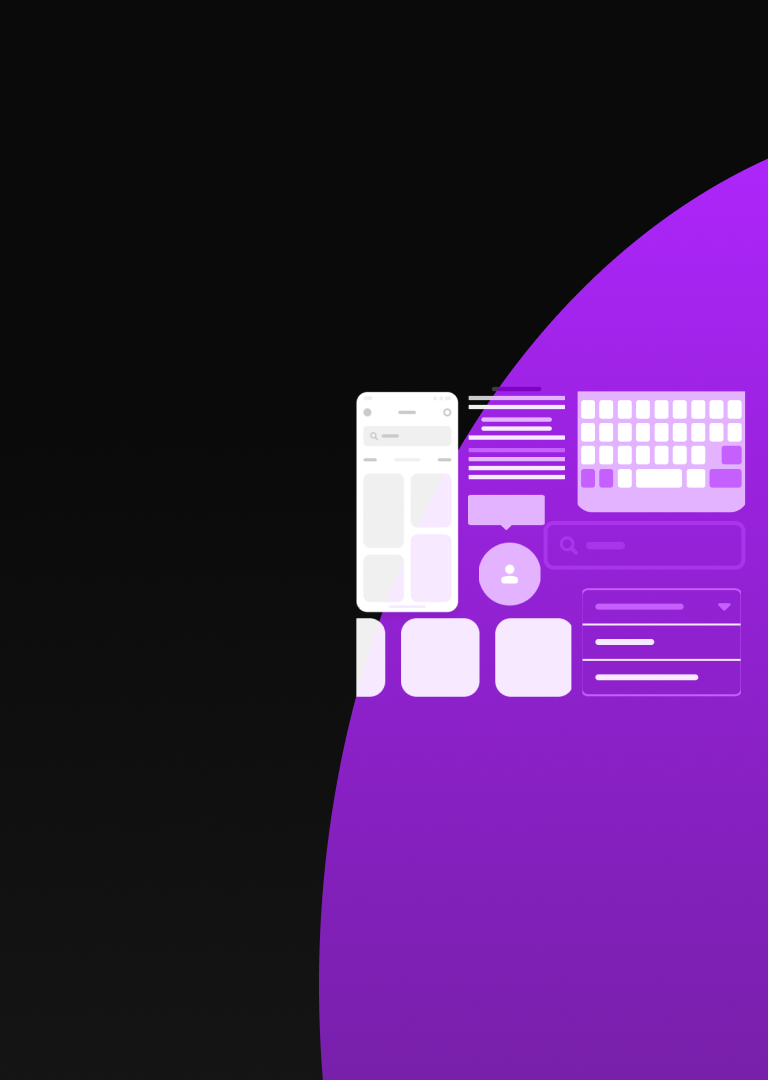
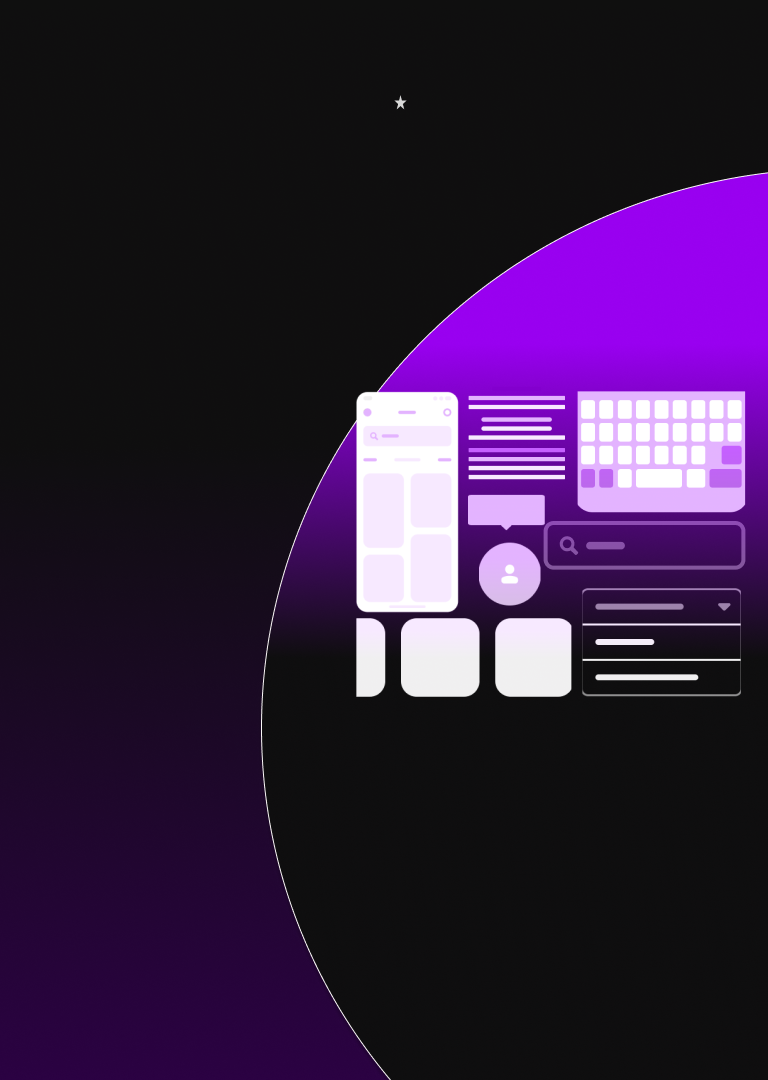
commit

diff --git a/pages/index.js b/pages/index.js
@@ -85,6 +85,11 @@ export default function Home() {
             </Typography>
           </Grid>
           <Grid item xs={12} md={12} sm={12} lg={12}>
+          <motion.div
+  initial={{ opacity: 0 }}
+    transition={{ease: "easeOut", duration: 2.5 }}
+  whileInView={{ opacity: 1 }}
+  viewport={{ once: true }}>
             <Box
               component="div"
               ml={0}
@@ -93,6 +98,7 @@ export default function Home() {
               display="flex"
               
             ></Box>
+            </motion.div>
             
           </Grid>
         </Grid>
@@ -121,6 +127,11 @@ export default function Home() {
             </Typography>
           </Grid>
           <Grid item xs={12} md={12} lg={12}>
+          <motion.div
+  initial={{ opacity: 0 }}
+  transition={{ duration: 2.5 }}
+  whileInView={{ opacity: 1 }}
+  viewport={{ once: true }}>
             <Box
               component="div"
               ml={0}
@@ -128,6 +139,7 @@ export default function Home() {
               height="100%"
               display="flex"
             ></Box>
+            </motion.div>
           </Grid>
         </Grid>
       </Box>
@@ -147,6 +159,12 @@ export default function Home() {
             </Typography>
           </Grid>
           <Grid item xs={12} md={12} lg={12} mb={8}>
+          <motion.div
+  initial={{ opacity: 0 }}
+  whileInView={{ opacity: 1 }}
+  viewport={{ once: true }}
+  transition={{ duration: 2.5 }}
+  >
             <Card
               square={false}
               className="MuiPaper-rounded"
@@ -194,9 +212,16 @@ export default function Home() {
                 alt="Fade Technology Solutions"
               />
             </Card>
+            </motion.div>
           </Grid>
 
           <Grid item xs={12} md={12} lg={12} mb={8}>
+          <motion.div
+  initial={{ opacity: 0 }}
+  whileInView={{ opacity: 1 }}
+  viewport={{ once: true }}
+  transition={{ duration: 2.5 }}
+  >
             <Card
               square={false}
               className="MuiPaper-rounded"
@@ -245,6 +270,7 @@ export default function Home() {
                 alt="WGSR"
               />
             </Card>
+            </motion.div>
           </Grid>
         </Grid>
       </Box>

diff --git a/styles/globals.css b/styles/globals.css
@@ -300,14 +300,14 @@ ul.ulStyle li {
 /* Medium devices (landscape tablets, 768px and up) */
 @media only screen and (min-width:600px) and (max-width:768px) {
   .homeHero {
-    background-image: url("https://worldshaker.imgix.net//assets/Tablet768_bg.png");
+    background-image: url("/assets/Tablet768_bg.png");
     padding: 8px;
     min-height: 45rem;
   }
 } 
 @media only screen and (min-width:768px) and (max-width:900px) {
   .homeHero {
-    background-image: url("https://worldshaker.imgix.net//assets/Desktop1440_bg.png");
+    background-image: url("/assets/Desktop1440_bg.png");
     padding: 8px;
     min-height: 45rem;
   }
@@ -315,7 +315,7 @@ ul.ulStyle li {
 /* Large devices (lops/desktops, 992px and up) */
 @media only screen and (min-width:900px) and (max-width:1200px) {
   .homeHero {
-    background-image: url("https://worldshaker.imgix.net/assets/Desktop1440_bg.png");
+    background-image: url("/assets/Desktop1440_bg.png");
     position: relative;
     padding: 8px;
     min-height: 45rem;
@@ -325,7 +325,7 @@ ul.ulStyle li {
 /* Extra large devices (large laptops and desktops, 1200px and up) */
 @media only screen and (min-width:1200px) and (max-width:1440px) {
   .homeHero {
-    background-image: url("https://worldshaker.imgix.net//assets/Desktop1440_bg.png");
+    background-image: url("/assets/Desktop1440_bg.png");
     position: relative;
     padding: 8px;
     height: 100vh;
@@ -335,7 +335,7 @@ ul.ulStyle li {
 }
 @media only screen and (min-width:1440px) and (max-width:1920px) {
   .homeHero {
-    background-image: url("https://worldshaker.imgix.net//assets/Desktop1920_bg.png");
+    background-image: url("/assets/Desktop1920_bg.png");
     position: relative;
     padding: 8px;
     height: 100vh;
